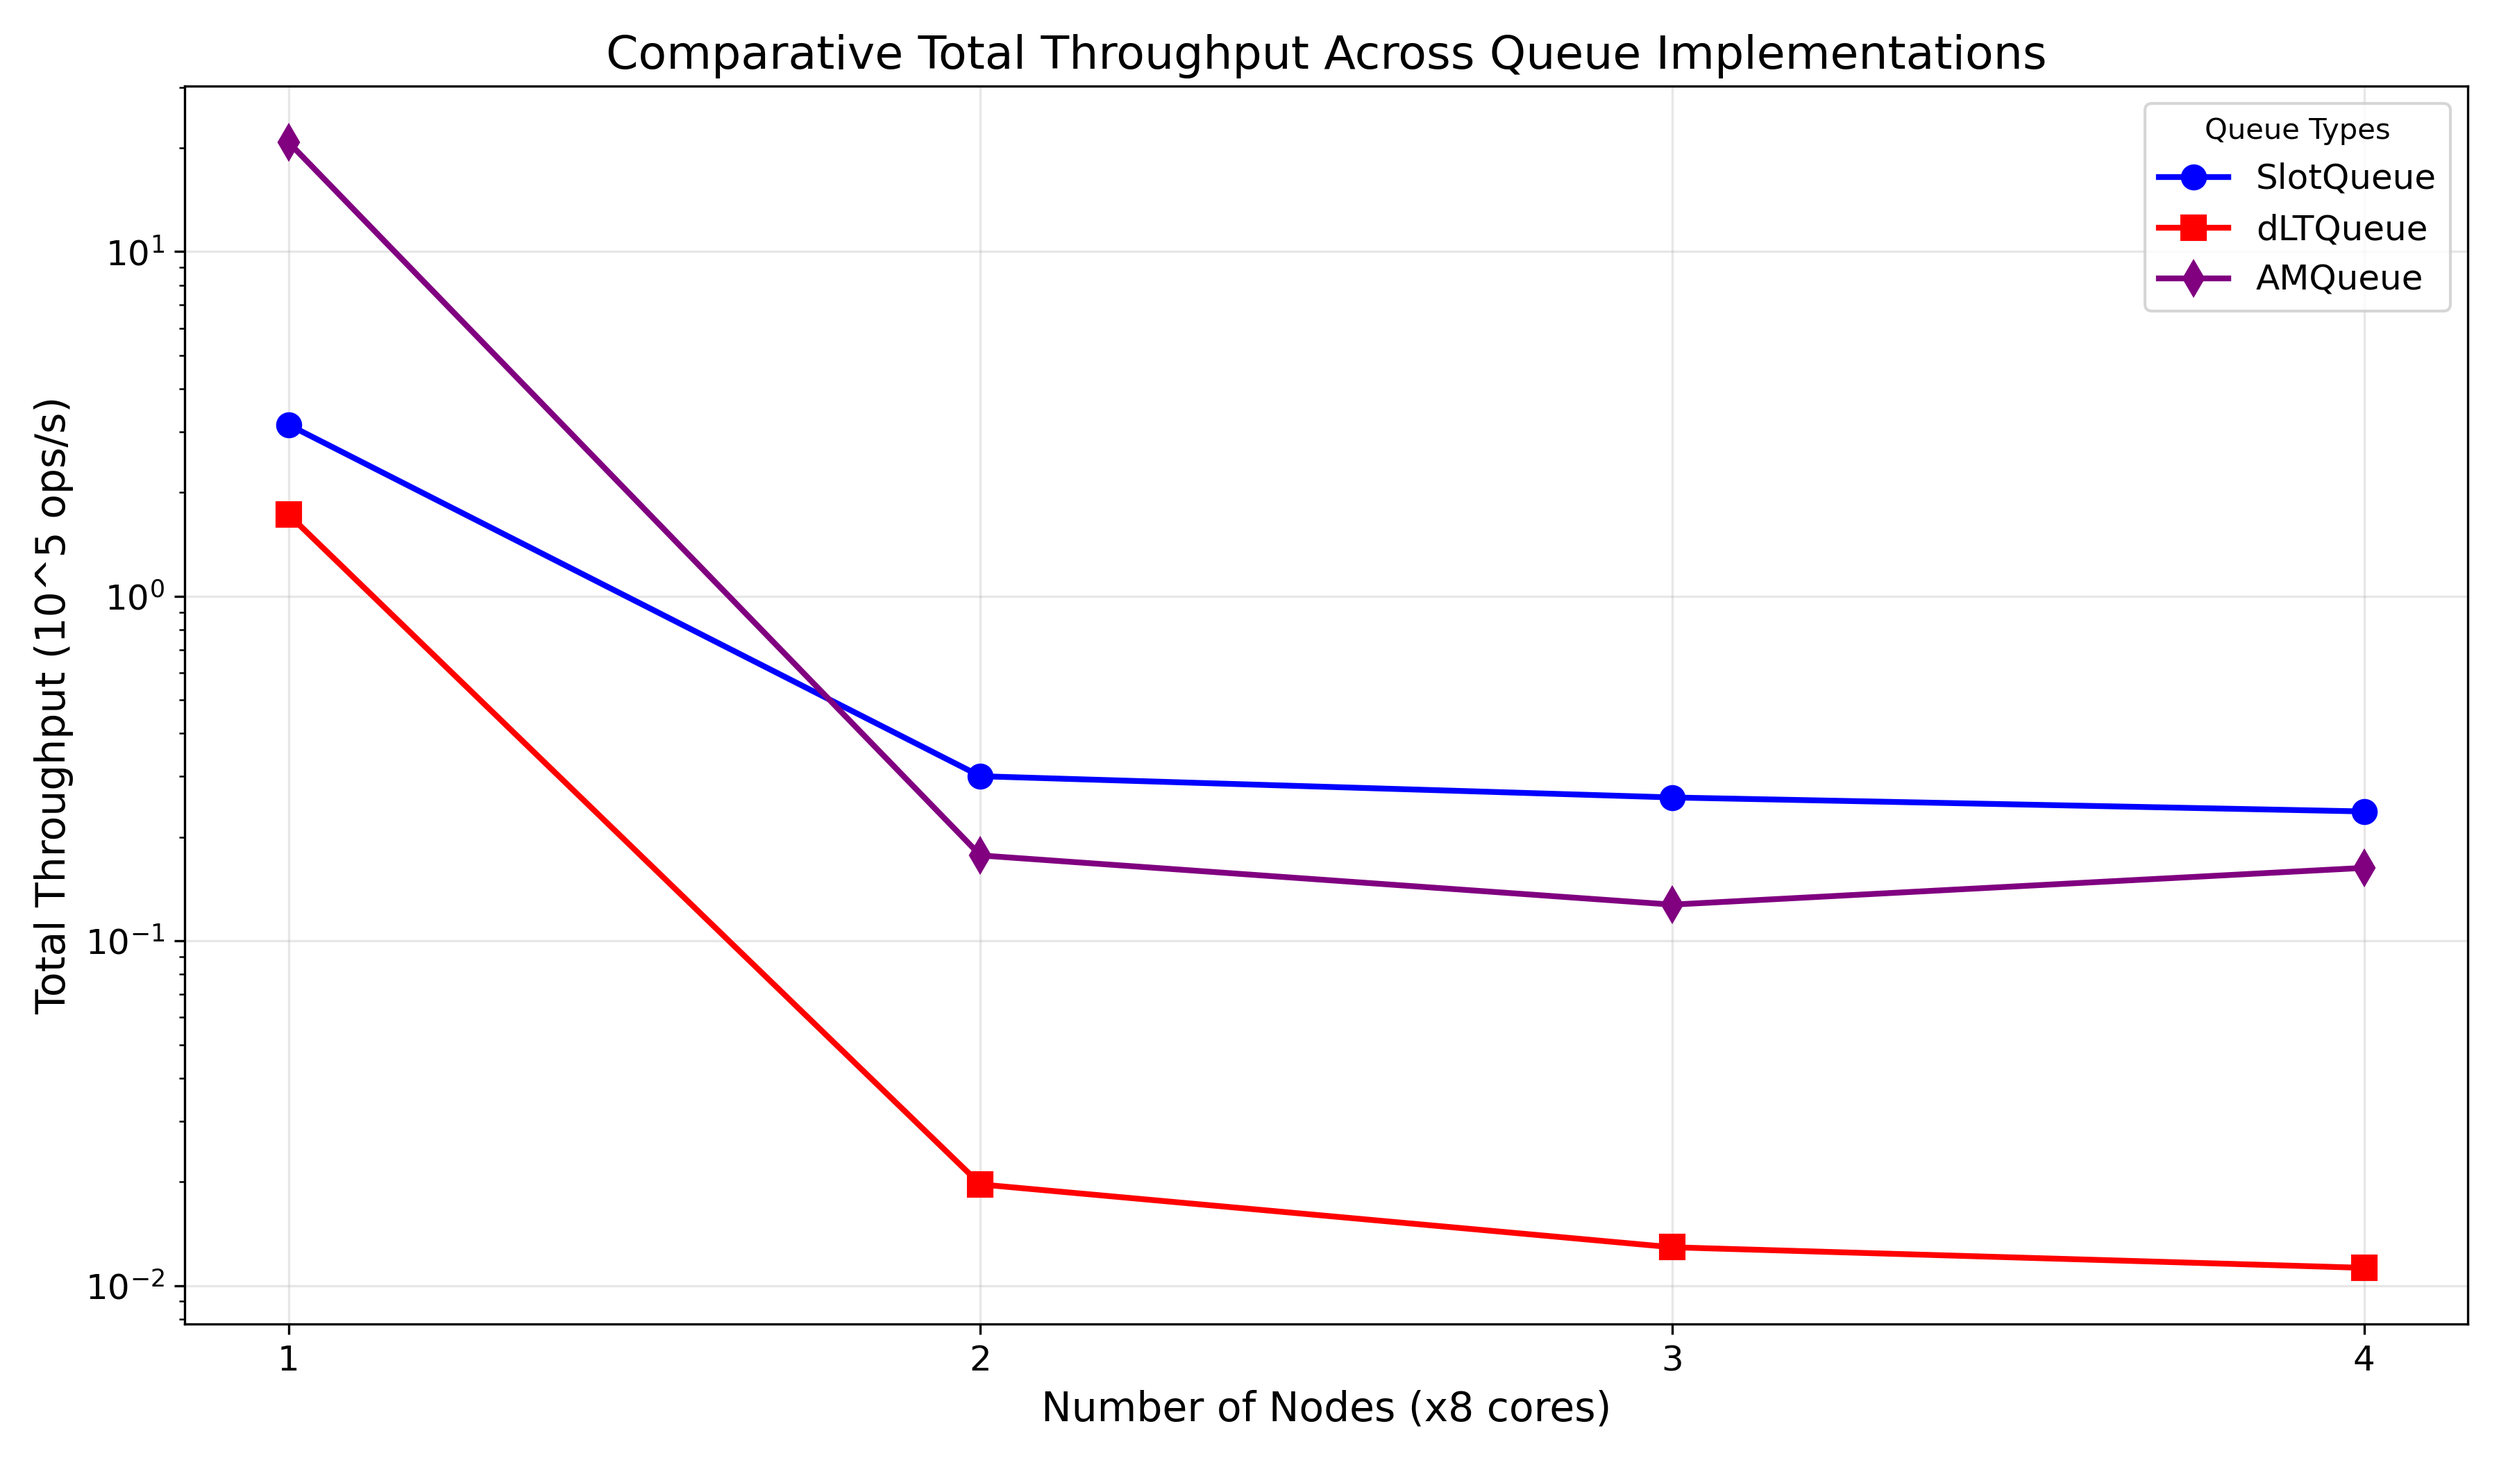
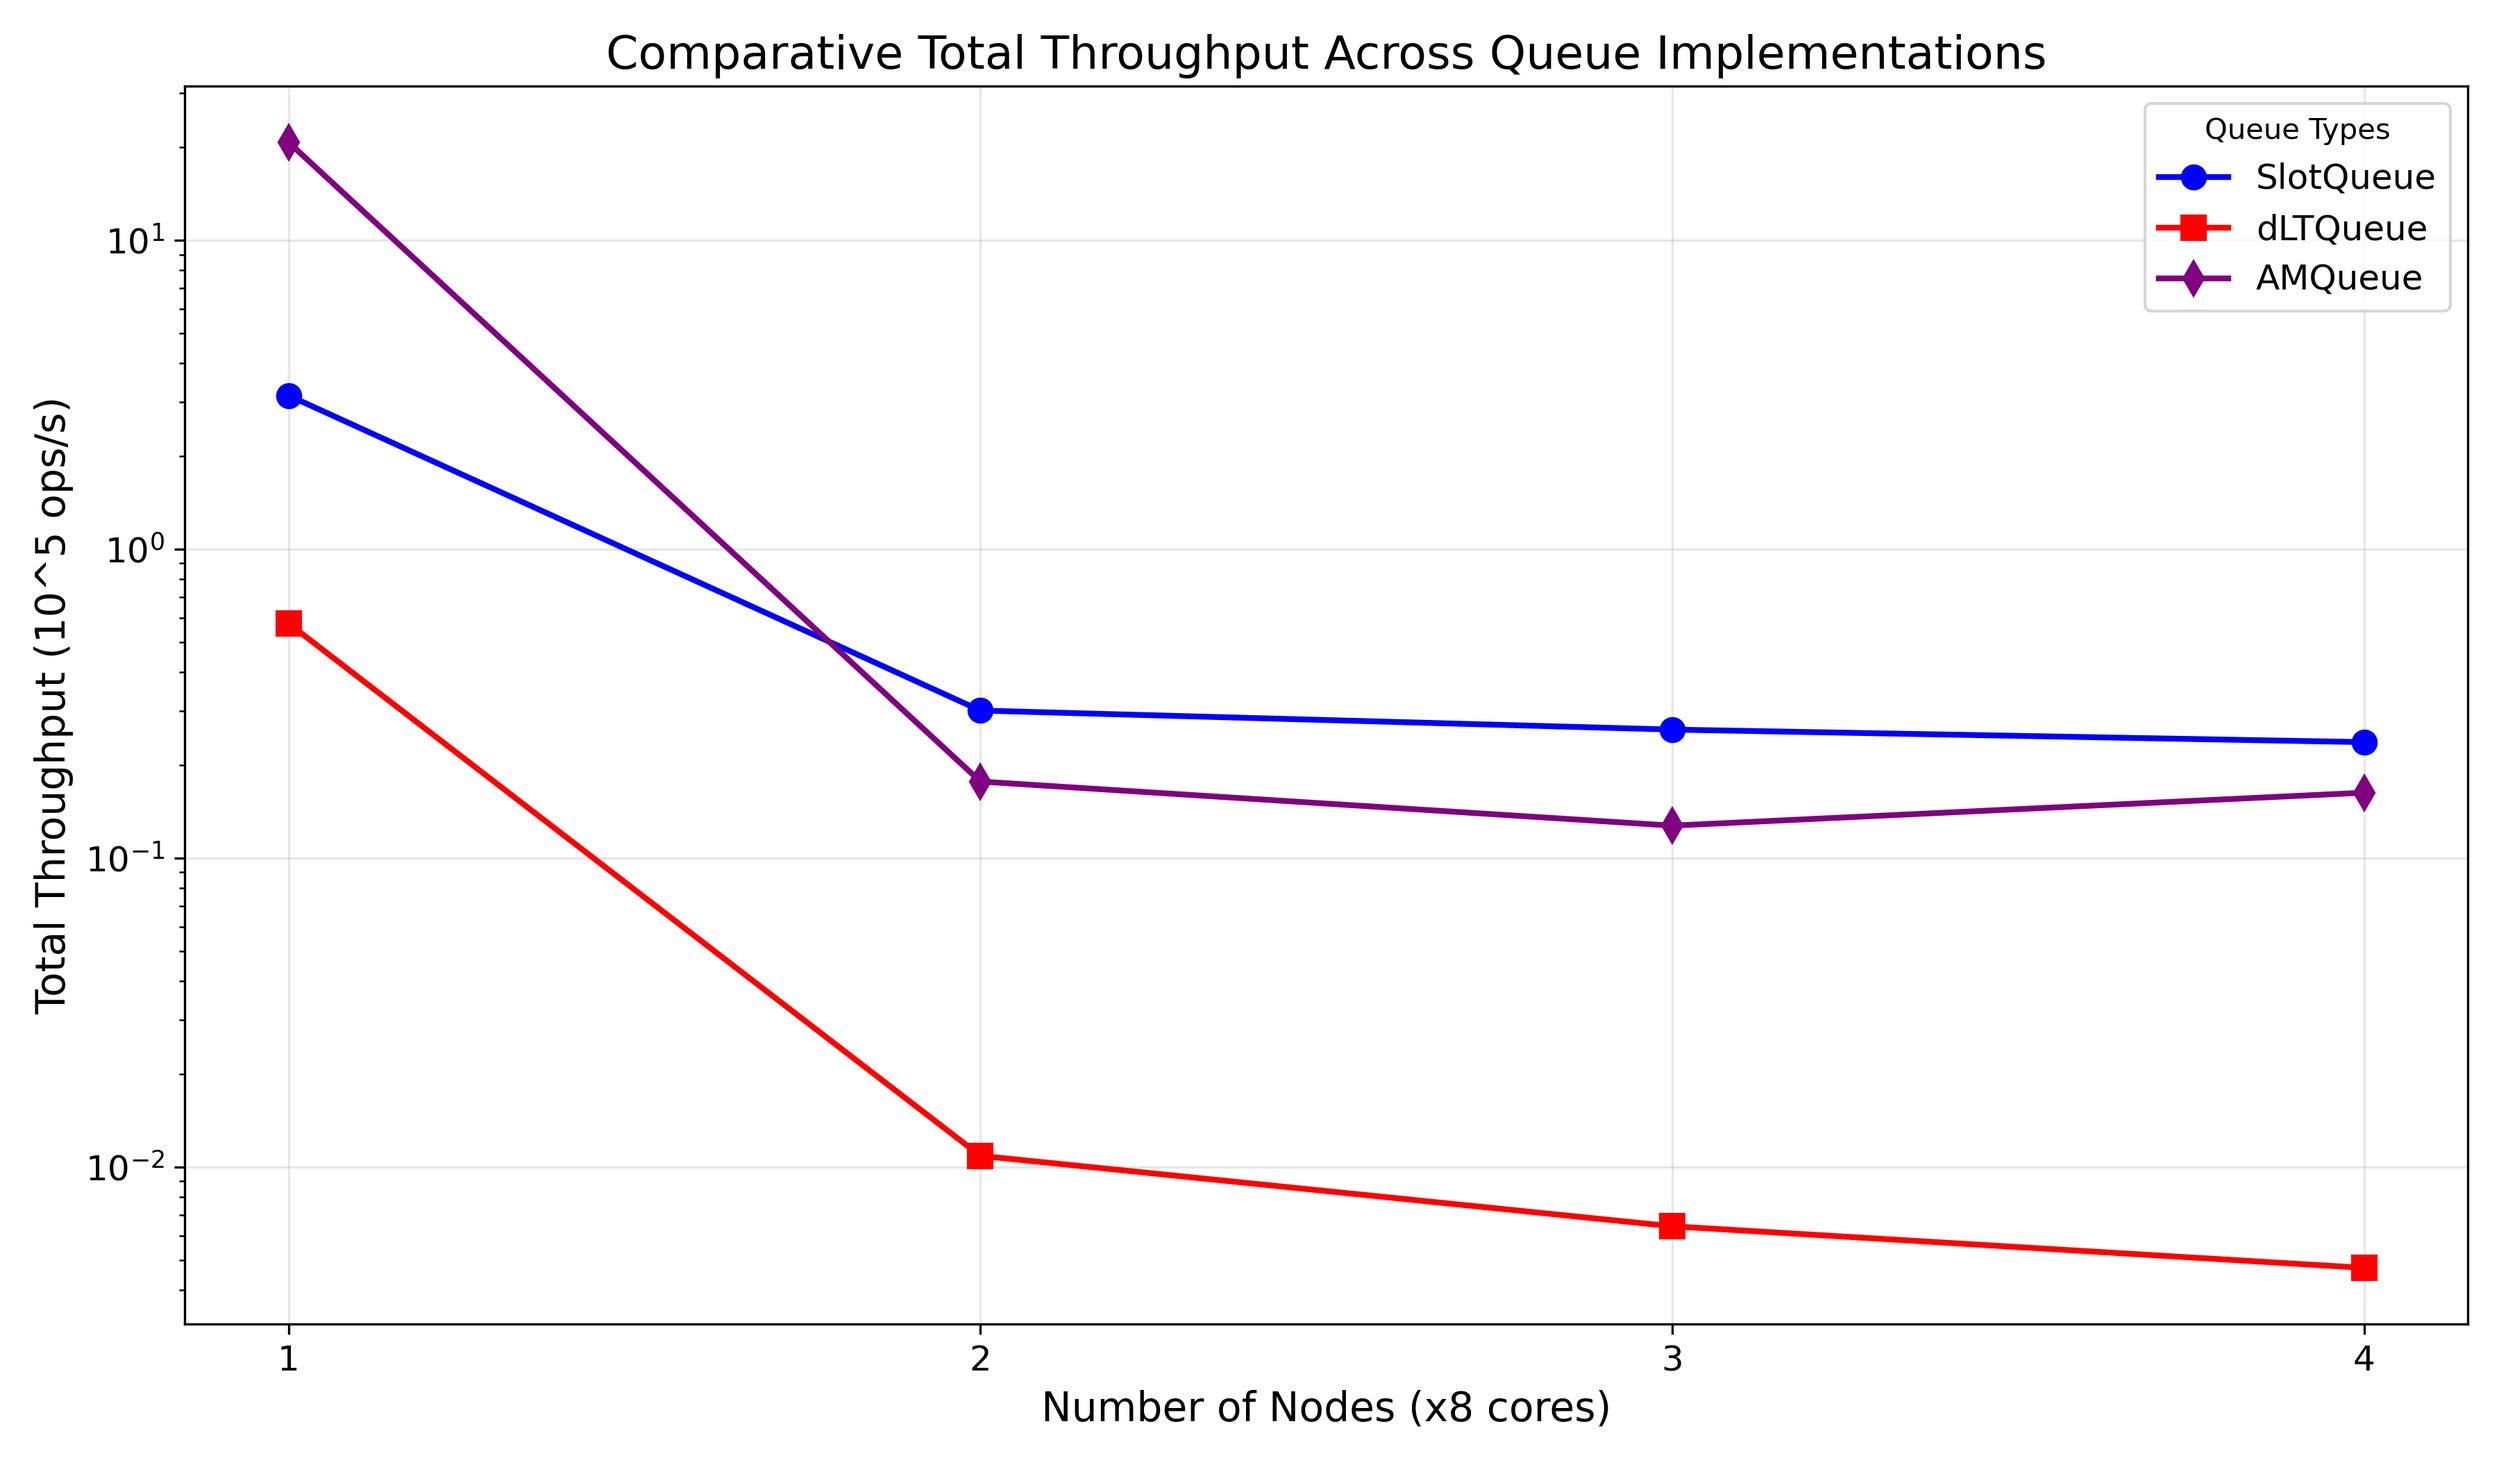
fix(temporary): deoptimize LTQueue for lack of proof

diff --git a/benches/microbenchmarks/single-one-queue/non-rdma-cluster/by-nodes.py b/benches/microbenchmarks/single-one-queue/non-rdma-cluster/by-nodes.py
@@ -15,11 +15,11 @@ queue_data = {
         "total_throughput": [3.14455, 0.30058, 0.260807, 0.237505],
     },
     "dLTQueue": {
-        "dequeue_throughput": [0.862575, 0.00980247, 0.0064194, 0.00556359],
-        "dequeue_latency": [11.5932, 1020.15, 1557.78, 1797.4],
-        "enqueue_throughput": [5.17603, 0.419166, 0.254151, 0.207099],
-        "enqueue_latency": [13.5239, 357.854, 904.972, 1496.87],
-        "total_throughput": [1.72601, 0.0196539, 0.0129158, 0.0112552],
+        "dequeue_throughput": [0.287441, 0.00543658, 0.00321616, 0.00235801],
+        "dequeue_latency": [34.7898, 1839.39, 3109.3, 4240.87],
+        "enqueue_throughput": [1.02183, 0.0270633, 0.0166776, 0.008472],
+        "enqueue_latency": [68.5043, 5542.55, 13791, 36591.1],
+        "total_throughput": [0.574968, 0.0108759, 0.00643392, 0.00471908],
     },
     "AMQueue": {
         "dequeue_throughput": [11.4077, 0.0946985, 0.0697346, 0.0919903],
